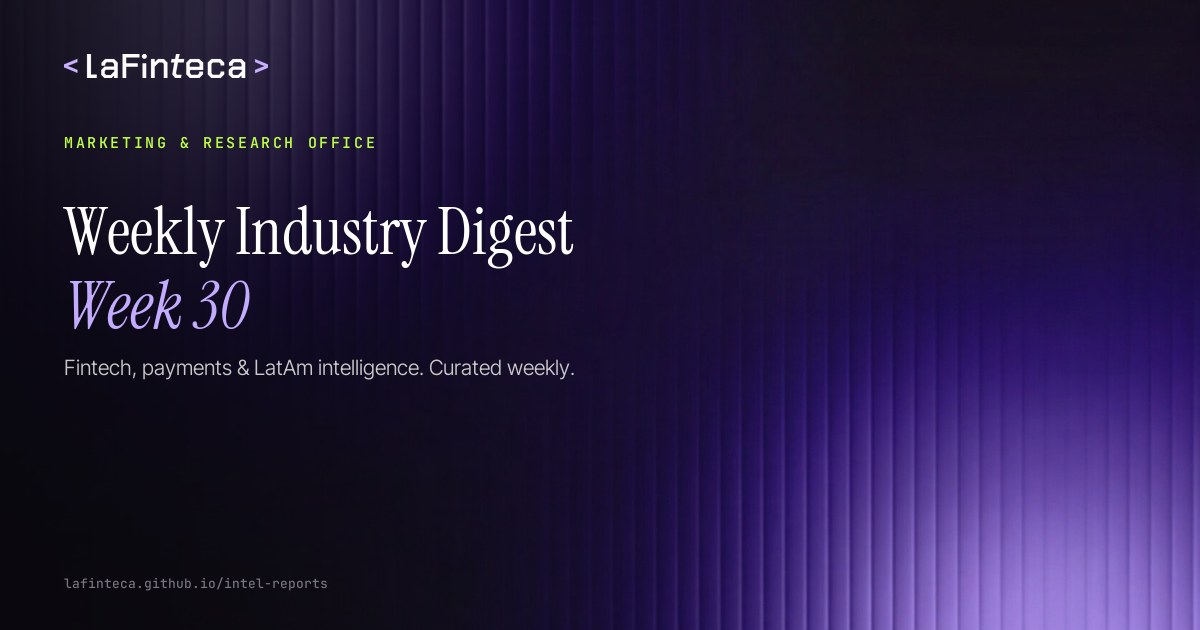
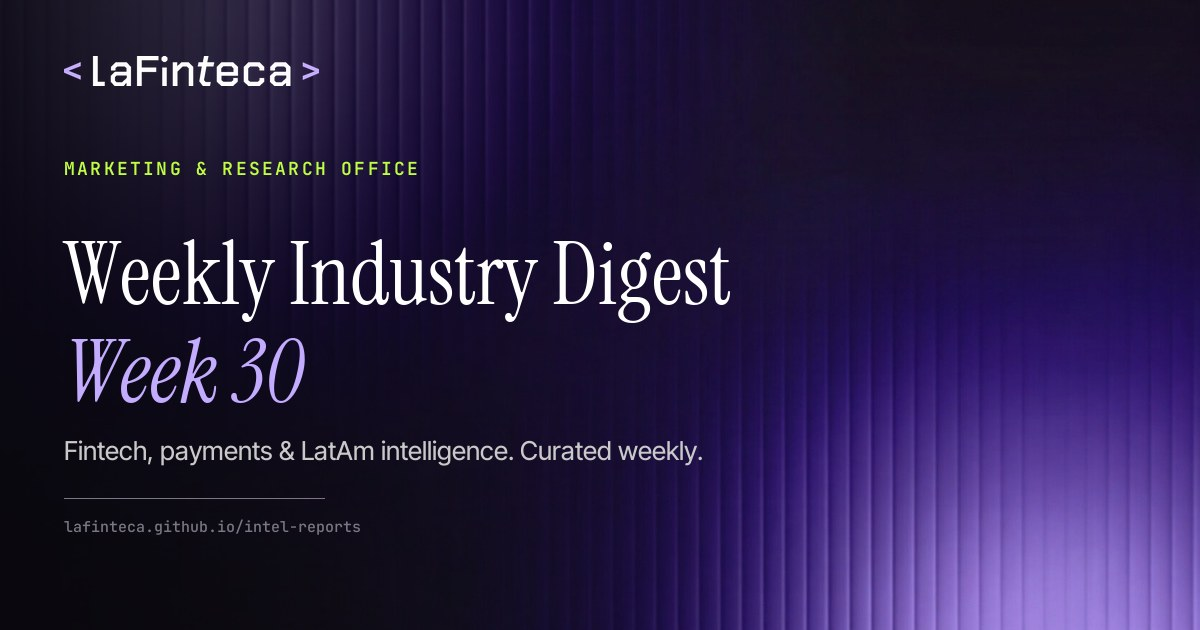
Rebalance digest OG image: larger type, less dead space
Bumped title/intro/kicker/logo sizes for legibility at Slack's small
thumbnail scale, and closed the empty gap before the footer with a
divider rule instead of blank space.

diff --git a/scripts/generate-og-image.py b/scripts/generate-og-image.py
@@ -177,28 +177,30 @@ def compose(bg_path, week_label, intro_text, out_path, site_label="lafinteca.git
     draw = ImageDraw.Draw(canvas)
     left = 64
 
-    logo = render_logo(24, {"chevron": SCHEME["logo_chevron"], "word": SCHEME["logo_word"]})
-    canvas.paste(logo, (left, 54), logo)
+    logo = render_logo(30, {"chevron": SCHEME["logo_chevron"], "word": SCHEME["logo_word"]})
+    canvas.paste(logo, (left, 56), logo)
     draw = ImageDraw.Draw(canvas)
 
-    kicker_y = 132
-    kicker_font = font("JetBrainsMono-Medium.ttf", 15, weight=560)
-    draw_tracked_text(draw, (left, kicker_y), "MARKETING & RESEARCH OFFICE", kicker_font, SCHEME["kicker"], tracking=2.6)
+    kicker_y = 156
+    kicker_font = font("JetBrainsMono-Medium.ttf", 18, weight=600)
+    draw_tracked_text(draw, (left, kicker_y), "MARKETING & RESEARCH OFFICE", kicker_font, SCHEME["kicker"], tracking=2.2)
 
-    t1_font = font("InstrumentSerif-Regular.ttf", 66)
-    t2_font = font("InstrumentSerif-Italic.ttf", 66)
-    title_y = 188
+    t1_font = font("InstrumentSerif-Regular.ttf", 86)
+    t2_font = font("InstrumentSerif-Italic.ttf", 86)
+    title_y = 218
     draw.text((left, title_y), "Weekly Industry Digest", font=t1_font, fill=SCHEME["title1"])
-    draw.text((left, title_y + 74), week_label, font=t2_font, fill=SCHEME["title2"])
+    draw.text((left, title_y + 98), week_label, font=t2_font, fill=SCHEME["title2"])
 
-    intro_font = font("InterTight-Regular.ttf", 21, weight=340)
-    ly = title_y + 74 + 92
-    for line in wrap_text(draw, intro_text, intro_font, 640)[:2]:
+    intro_font = font("InterTight-Regular.ttf", 26, weight=440)
+    ly = title_y + 98 + 118
+    for line in wrap_text(draw, intro_text, intro_font, 700)[:2]:
         draw.text((left, ly), line, font=intro_font, fill=SCHEME["intro"])
-        ly += 30
+        ly += 38
 
-    footer_font = font("JetBrainsMono-Medium.ttf", 13, weight=460)
-    draw.text((left, H - 56), site_label, font=footer_font, fill=SCHEME["footer"])
+    rule_y = ly + 26
+    draw.line([(left, rule_y), (left + 260, rule_y)], fill=SCHEME["footer"], width=1)
+    footer_font = font("JetBrainsMono-Medium.ttf", 15, weight=500)
+    draw.text((left, rule_y + 18), site_label, font=footer_font, fill=SCHEME["footer"])
 
     rgb = canvas.convert("RGB")
     if str(out_path).lower().endswith((".jpg", ".jpeg")):